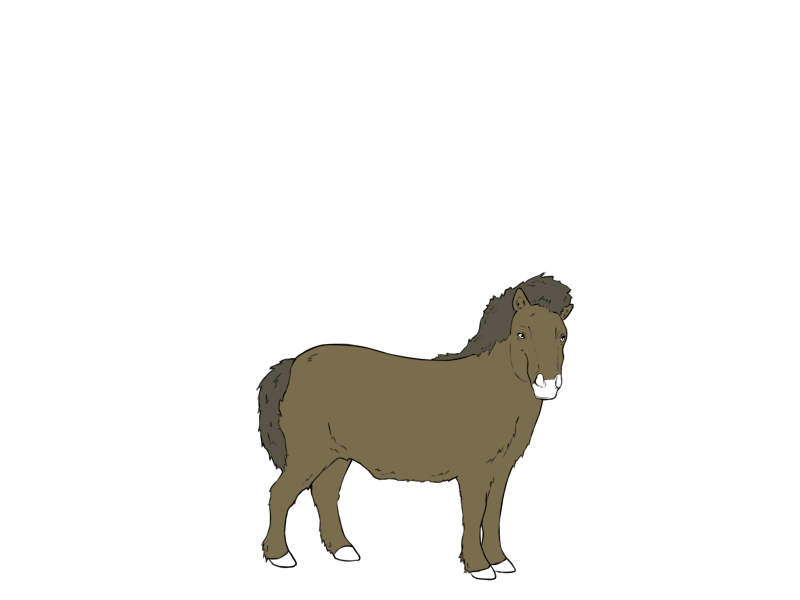
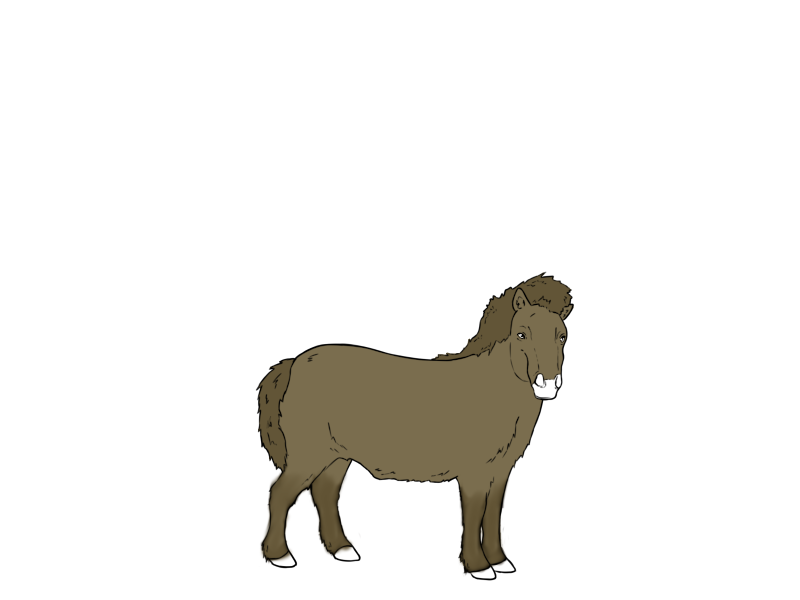
sm bl

Changed region(s): [[0.3125, 0.78, 0.4375, 0.96], [0.5625, 0.81, 0.6562, 0.96], [0.6562, 0.63, 0.7188, 0.69]]

diff --git a/app/Http/Controllers/ReproductionController.php b/app/Http/Controllers/ReproductionController.php
@@ -419,6 +419,21 @@ class ReproductionController extends Controller
                                   {$animal->Image()->attach($image->id);}
                                 }
                           }
+                          else{//si pa de double prendre la dilution normale
+                            $couleur = Couleur::where('nom', $couleur->nom)->first();
+                            if (isset($couleur))
+                             {
+                                  $animal->Couleur()->attach($couleur->id);
+    
+                                  $images = $couleur->Images;
+                                    foreach ($images as $image)
+                                    { 
+                                      if ($image <> null)
+                                      {$animal->Image()->attach($image->id);}
+                                    }
+                              }
+
+                          }
                       }
                    
 

diff --git a/database/seeds/CouleurImageTableSeeder.php b/database/seeds/CouleurImageTableSeeder.php
@@ -1945,6 +1945,22 @@ class CouleurImageTableSeeder extends Seeder
                 'created_at' => NULL,
                 'updated_at' => NULL,
             ),
+            241 => 
+            array (
+                'id' => 286,
+                'couleur_id' => 188,
+                'image_id' => 169,
+                'created_at' => NULL,
+                'updated_at' => NULL,
+            ),
+            242 => 
+            array (
+                'id' => 287,
+                'couleur_id' => 189,
+                'image_id' => 172,
+                'created_at' => NULL,
+                'updated_at' => NULL,
+            ),
         ));
         
         

diff --git a/database/seeds/AssoCouleursTableSeeder.php b/database/seeds/AssoCouleursTableSeeder.php
@@ -503,6 +503,15 @@ class AssoCouleursTableSeeder extends Seeder
                 'created_at' => NULL,
                 'updated_at' => NULL,
             ),
+            54 => 
+            array (
+                'id' => 66,
+                'couleur_res_id' => 189,
+                'couleur1_id' => 2,
+                'couleur2_id' => 7,
+                'created_at' => NULL,
+                'updated_at' => NULL,
+            ),
         ));
         
         

diff --git a/database/seeds/ImagesTableSeeder.php b/database/seeds/ImagesTableSeeder.php
@@ -1457,6 +1457,15 @@ class ImagesTableSeeder extends Seeder
                 'created_at' => NULL,
                 'updated_at' => NULL,
             ),
+            160 => 
+            array (
+                'id' => 172,
+                'chemin' => 'smokyblack',
+                'extension' => 'png',
+                'z_index' => 2,
+                'created_at' => NULL,
+                'updated_at' => NULL,
+            ),
         ));
         
         
